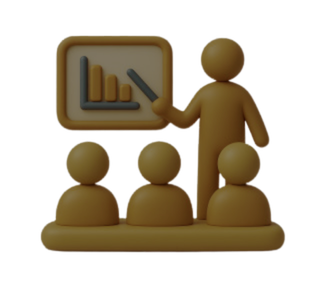
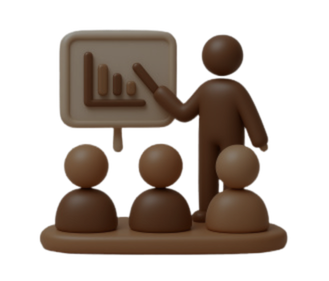
Add portfolio section with responsive layout and styling

Changed region(s): [[0.1216, 0.0854, 0.8815, 0.911]]

diff --git a/css/home.css b/css/home.css
@@ -161,6 +161,59 @@
     white-space: nowrap;
 }
 
+.portfolio-grid {
+    display: flex;
+    justify-content: center;
+    align-items: center;
+    gap: 20px;
+    margin-top: 40px;
+    flex-wrap: wrap;
+}
+
+.portfolio-item {
+    flex: 1;
+    min-width: 200px;
+    max-width: 280px;
+    display: flex;
+    flex-direction: column;
+    justify-content: center;
+    align-items: center;
+}
+
+.portfolio-img {
+    width: 100%;
+    height: auto;
+    max-height: 200px;
+    object-fit: contain;
+    display: block;
+}
+
+.portfolio-btn {
+    display: inline-block;
+    margin-top: 12px;
+    padding: 10px 20px;
+    background-color: #151515;
+    color: #ffffff;
+    text-decoration: none;
+    font-size: clamp(0.85rem, 1.2vw, 1rem);
+    font-weight: 600;
+    border-radius: 6px;
+    transition: background-color 0.3s ease, transform 0.2s ease;
+    cursor: pointer;
+    border: none;
+    text-align: center;
+}
+
+.portfolio-btn:hover {
+    background-color: #313030;
+    transform: translateY(-2px);
+}
+
+.portfolio-btn:focus-visible {
+    outline: 2px solid #151515;
+    outline-offset: 2px;
+}
+
 .companies-carousel {
     position: relative;
     overflow: hidden;
@@ -351,6 +404,20 @@
         height: 180px;
     }
 
+    .portfolio-item {
+        min-width: 160px;
+        max-width: 220px;
+    }
+
+    .portfolio-img {
+        max-height: 160px;
+    }
+
+    .portfolio-btn {
+        font-size: 0.9rem;
+        padding: 8px 16px;
+    }
+
     .identity-purpose-image-wrap,
     .identity-purpose-text-wrap {
         width: 100%;
@@ -400,6 +467,26 @@
 
     .companies-track {
         transition-duration: 0.35s;
+    }
+
+    .portfolio-grid {
+        gap: 12px;
+        margin-top: 30px;
+    }
+
+    .portfolio-item {
+        min-width: 140px;
+        max-width: 180px;
+    }
+
+    .portfolio-img {
+        max-height: 140px;
+    }
+
+    .portfolio-btn {
+        font-size: 0.8rem;
+        padding: 8px 14px;
+        margin-top: 10px;
     }
 }
 

diff --git a/partials/home.html b/partials/home.html
@@ -62,5 +62,23 @@
 <section id="gdc-services-portfolio" class="section">
     <div class="companies-carousel-section">
         <h3 class="companies-carousel-title">GDC Services &amp; Portfolio</h3>
+        <div class="portfolio-grid">
+            <div class="portfolio-item">
+                <img src="simbo/Coaching.png" alt="Coaching" class="portfolio-img" />
+                <a href="#coaching" class="portfolio-btn">COACHING</a>
+            </div>
+            <div class="portfolio-item">
+                <img src="simbo/Leadercoaching.png" alt="Leader Coaching" class="portfolio-img" />
+                <a href="#leadercoaching" class="portfolio-btn">LEADERCOACHING</a>
+            </div>
+            <div class="portfolio-item">
+                <img src="simbo/TeamCoaching.png" alt="Team Coaching" class="portfolio-img" />
+                <a href="#teamcoaching" class="portfolio-btn">TEAMCOACHING</a>
+            </div>
+            <div class="portfolio-item">
+                <img src="simbo/1to1coaching.png" alt="1 to 1 Coaching" class="portfolio-img" />
+                <a href="#one-to-one-coaching" class="portfolio-btn">1:1COACHING</a>
+            </div>
+        </div>
     </div>
 </section>
